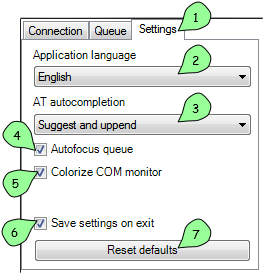
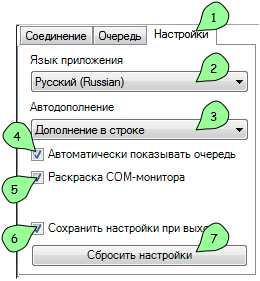
Russian localization in separate branch now :)

diff --git a/usage.rst b/usage.rst
@@ -1,71 +1,71 @@
-Usage
-=====
+Использование
+=============
 
 .. role:: i
 .. role:: s
 
-.. contents::
+.. contents:: Содержание
 
-Starting communication
-----------------------
+Установка соединения
+--------------------
 
-When you first open the program, you see main window.
+Когда Вы первый раз откроете программу, Вы увидите следующее окно.
 
-.. image:: Screens/MainForm.png
+.. image:: ../Screens/MainForm-ru.png
 
-At start, all available ports available within OS should be updated and filled in ports list :i:`1`. You can manually refresh them after inserting new devices by clicking **"Rescan"`** :i:`2` button.
+При запуске, все доступные в системе порты обновляются и добавляются в список портов :i:`1`. Вы можете вручную обновить список доступных портов, после добавления новых устройств, нажатием кнопки **"Открыть порт"** :i:`2`.
 
-After choosing needed port, select (or input) serial port speed (baud rate) for given device :i:`3`. Check or uncheck **"Fill automatically"** :i:`4` checkbox: if it is checked, all information about modem will be filled automatically after you have connected to modem. You can also fill information manually using **"Fill information"** :i:`5` button. The same result could be achieved by using :s:`F5` key (refresh information, see :ref:`key-shortcuts`).
+После выбора необходимого порта, выберите (или введите) необходимую скорость передачи данных (baud rate) для выбранного устройства :i:`3`. Установите флажок **"Заполнить автоматически"** :i:`4` если Вы хотите чтобы программа заполнила информацию о модеме автоматически при подключении к устройству. Также в любой момент можно сделать это вручную используя кнопку **"Заполнить информацию"** :i:`5`. Тот же результат может быть получен нажатием горячей клавиши :s:`F5` (обновить информацию, см. :ref:`key-shortcuts`).
 
-Click **"Open port"** :i:`6` button to start communication. If port has been successfully opened, status indicator :i:`7` will turn green. This status indicator could be 3 different colors: red for closed, green for opened, blue for *"downloading mode"*.
+Для подключения к модему нажмите кнопку **"Открыть порт"** :i:`6`. Если порт был успешно открыт, индикатор текущего статуса :i:`7` станет зелёным. Индикатор статуса может быть трех разных цветов: красный при закрытом порту, зелёный - при открытом, синий - в режиме *"загрузки"*.
 
-There's console view at the bottom of the window. Left view :i:`8` is for pretty status messages and filtered AT-command results, where right view :i:`9` is raw COM (serial) monitor which displays all that present in COM connection.
+В нижней части окна располагается консольный монитор. Левая :i:`8` часть отвечает за красивые статусные сообщения и фильтрованный вывод AT-команд, правая :i:`9` часть является монитором последовательного COM-соединения и отображает всё что попадает в COM-порт.
 
-Text field :i:`10` at the bottom allows to send AT commands explicitly into modem and text field **"Search"** :i:`11` allows to search through both console windows.
+Текстовое поле :i:`10` в самом низу позволяет слать AT-команды модему напрямую. Текстовое поле :i:`11` осуществляет поиск по обоим консольным окнам.
 
-.. image:: Screens/Search.png
+.. image:: ../Screens/Search.png
 
 .. note::
 
-   Search does not work incrementally: it just highlights all found matches so you can see them distinctly.
+   Поиск работает не инкрементально: он лишь подсвечивает все совпадения для удобного просмотра результатов.
 
 .. _queue:
 
-Using queue
------------
+Очередь команд
+--------------
 
-Whether you are using console input or automatized button which processes number of tasks, these tasks will be added into the queue of commands which you can see, pause and resume. Also you can repeat last sent (unsuccessful) command.
+При общении с модемом, будь то ручные команды или автоматическая кнопка настройки модема, AT-команды складываются в *"очередь"* команд. Очередь можно приостанавливать и возобнавлять, а также повторять последнюю (неудавшуюся) команду.
 
-.. image:: Screens/Queue.png
+.. image:: ../Screens/Queue-ru.png
 
 .. note::
 
-   If you have **"Autofocus queue"** enabled in settings, this tab will be automatically opened when automatized sequence of commands is triggered (see :ref:`settings`).
+   Если флажок **"Автоматически показывать очередь"** (в настройках) включен, вкладка очереди будет автоматически открыта когда автоматизированный набор команд будет запущен на исполнение (см. :ref:`settings`).
 
-Here you can see list of commands that appeared after starting modem application configuration (see :ref:`configuration`). Currently working command is highlighted by green color if it is AT-command and by blue color if it is a process which uses progressbar below (XModem uploading, analog/digital inputs configuration).
+На скриншоте отображён список команд, появившихся после запуска конфигурирования приложения модема (см. :ref:`configuration`). Текущая работающая команда подсвечена зелёным цветом если это AT-команда, и синим цветом если это длительный процесс (загрузка прошивки по протоколу XModem, перенастройка аналоговых и цифровых входов).
 
-Checkbox **"Autopause"** :i:`1` makes sure that if an error occurs when command is executed, whole queue would be paused and you will be notified of that. In most cases, this checkbox should be enabled.
+Флажок **"Автопауза"** :i:`1` отвечает за приостановку очереди в случае возникновения ошибок при выполнении команды. В большинстве сценариев, этот влажок должен быть активен.
 
-Button **"Pause/Resume"**  :i:`2` allows to manually pause/resume queue. If the queue is paused, you can still input new AT commands which will be immediately executed in second (parallel) queue which is always working in non-pausing mode for this case specially.
+Кнопка **"Пауза/Продолжить"** :i:`2` позволяет вручную приостановить/возобновить очередь. Если очередь приостановлена, Вы всё ещё можете посылать модему AT-команды, которые будут выполнены сразу же после ввода в параллельной (другой) очереди, работающей без остановок специально для этого применения.
 
-Button **"Repeat"** :i:`3` allows to repeat last (failed) AT-command if the queue is currently paused. This command is executed in second queue, so this is just an automation around typing the same command again and again.
+Кнопка **"Повторить"** :i:`3` позволяет повторить последнюю (неудавшуюся) AT-команду если очередь в данный момент приостановлена. Эта команда исполняется в параллельной очереди, позволяя заменить ввод одной и той же команды вручную.
 
-Progressbar :i:`4` is needed for indicating progress of long events (such as downloading firmware or configuring lots of ports).
+Индикатор состояния :i:`4` нужен для отображения прогресса долгих событий (таких как загрузка прошивки или перенастройка большого количества портов).
 
 .. _settings:
 
-ModemManager settings
----------------------
+Настройки ModemManager
+----------------------
 
-For more comfortable look and feel you may wish to setup it for your demands. To do so, go to **"Settings"** :i:`1` tab. If you wish to skip settings chapter, go to :ref:`preparation` section.
+Для более комфортной работы с программой Вы можете настроить её удовлетворяющим Вас образом. Для этого перейдите на вкладку **"Настройки"** :i:`1`. Если Вы желаете пропустить часть по настройке программы, можете перейти к части :ref:`preparation`.
 
-.. image:: Screens/Settings.png
+.. image:: ../Screens/Settings-ru.png
 
 In listbox **"Application language"** :i:`2` you can choose whole application language between two languages (currently): english and russian. This localizes not only user interface, but also various status messages in console view.
 
 In listbox **"AT autocompletion"** :i:`3` you can select autocompletion type for manual AT-command input from 4 different types:
 
-.. image:: Screens/Autocomplete.png
+.. image:: ../Screens/Autocomplete.png
 
 :i:`8` - None
 
@@ -83,7 +83,7 @@ Checkbox **"Autofocus queue"** :i:`4` does exactly what it promises to do: it fo
 
 **"Colorize COM monitor"** :i:`5` checkbox improves look and feel of raw COM monitor at the bottom right side of application. It actually colorized input based on some rules, like orange for "quoted text".
 
-.. image:: Screens/ColorizedCOM.png
+.. image:: ../Screens/ColorizedCOM.png
 
 Checkbox **"Save settings on exit"** :i:`6` is needed for saving settings and state of the application between sessions. If you want to start from current setup all the time, just uncheck this checkbox and if you change any settings, they will not remain after restart.
 
@@ -100,7 +100,7 @@ Preparation
 
 Before start using modem, you need to prepare it for work. If you obtained clean modem without our latest application, or you wish to upgrade to the latest version and you haven't setup needed APN or other settings yet, you should do following:
 
-.. image:: Screens/Automatic.png
+.. image:: ../Screens/Automatic.png
 
 :i:`1` Remap Application & Filesystem disk space (if you need it).
 
@@ -125,9 +125,9 @@ Application configuration
 
 Configuring application only works if you have our application inside your modem (which is obvious).
 
-.. image:: Screens/Configuration1.png
+.. image:: ../Screens/Configuration1.png
 
-.. image:: Screens/Configuration2.png
+.. image:: ../Screens/Configuration2.png
 
 :i:`1` button fills information from modem.
 

diff --git a/features.rst b/features.rst
@@ -1,16 +1,16 @@
-Features
-========
+Возможности
+===========
 
 Functionality
 -------------
 
 * Stable response from modem
 
-  .. image:: Figures/Stable.png
+  .. image:: ../Figures/Stable.png
 
 * Query all information about embedded module
 
-  .. image:: Figures/Information.png
+  .. image:: ../Figures/Information.png
 
   + General information
   + Memory sizes
@@ -18,7 +18,7 @@ Functionality
 
 * Queue of commands
 
-  .. image:: Figures/Queue.png
+  .. image:: ../Figures/Queue.png
 
   + All commands added to one queue executed in the background thread
   + User can pause and resume commands, added to the queue
@@ -28,11 +28,11 @@ Functionality
 
 * Uploading firmware, using XModem protocol
 
-  .. image:: Figures/XModem.png
+  .. image:: ../Figures/XModem.png
 
 * Automatic modem configuration
 
-  .. image:: Figures/Automate.png
+  .. image:: ../Figures/Automate.png
 
   + Erase application
   + Write bootloader and firmware
@@ -51,50 +51,50 @@ Usability
 
 * Command autocompletion and suggestion based on input history
 
-  .. image:: Figures/Autocompletion.png
+  .. image:: ../Figures/Autocompletion.png
 
 * Localization of every UI element as well as status messages
 
-  .. image:: Figures/Localization.png
+  .. image:: ../Figures/Localization.png
 
 * Remember all configured settings per sessions
 
-  .. image:: Figures/Settings.png
+  .. image:: ../Figures/Settings.png
 
 Visuals
 -------
 
-.. image:: Figures/Overall.png
+.. image:: ../Figures/Overall.png
 
 * Clean and filtered **Console window**
 
-  .. image:: Figures/Console.png
+  .. image:: ../Figures/Console.png
 
   + Command timespan
   + Colorful statuses in console
 
 * Raw serial **Monitor window**
 
-  .. image:: Figures/Monitor.png
+  .. image:: ../Figures/Monitor.png
 
   + Keep all history until another port is used
 
 * Search through both console windows
 
-  .. image:: Figures/Search.png
+  .. image:: ../Figures/Search.png
 
 * Colorful and noticeable status boxes
 
-  .. image:: Figures/States.png
+  .. image:: ../Figures/States.png
 
 * Flexible layout - windows are totally resizeable to any screen resolution, in-form splits are totally movable whenever you want. Also, you can show/hide information/console view (F11/F12)
 
-  .. image:: Figures/Resizeable.png
+  .. image:: ../Figures/Resizeable.png
      :width: 30em
 
 * Progressbar shows file uploading
 
-  .. image:: Figures/Uploading.png
+  .. image:: ../Figures/Uploading.png
 
 .. _key-shortcuts:
 
@@ -126,7 +126,7 @@ Command input field:
 Development
 -----------
 
-.. image:: Figures/Development.png
+.. image:: ../Figures/Development.png
 
 * Clean code base and architecture
 * Minimal dependencies

diff --git a/index.rst b/index.rst
@@ -1,5 +1,5 @@
-Modem Manager Documentation
-===========================
+Документация Modem Manager
+==========================
 
 .. toctree::
    :maxdepth: 2
